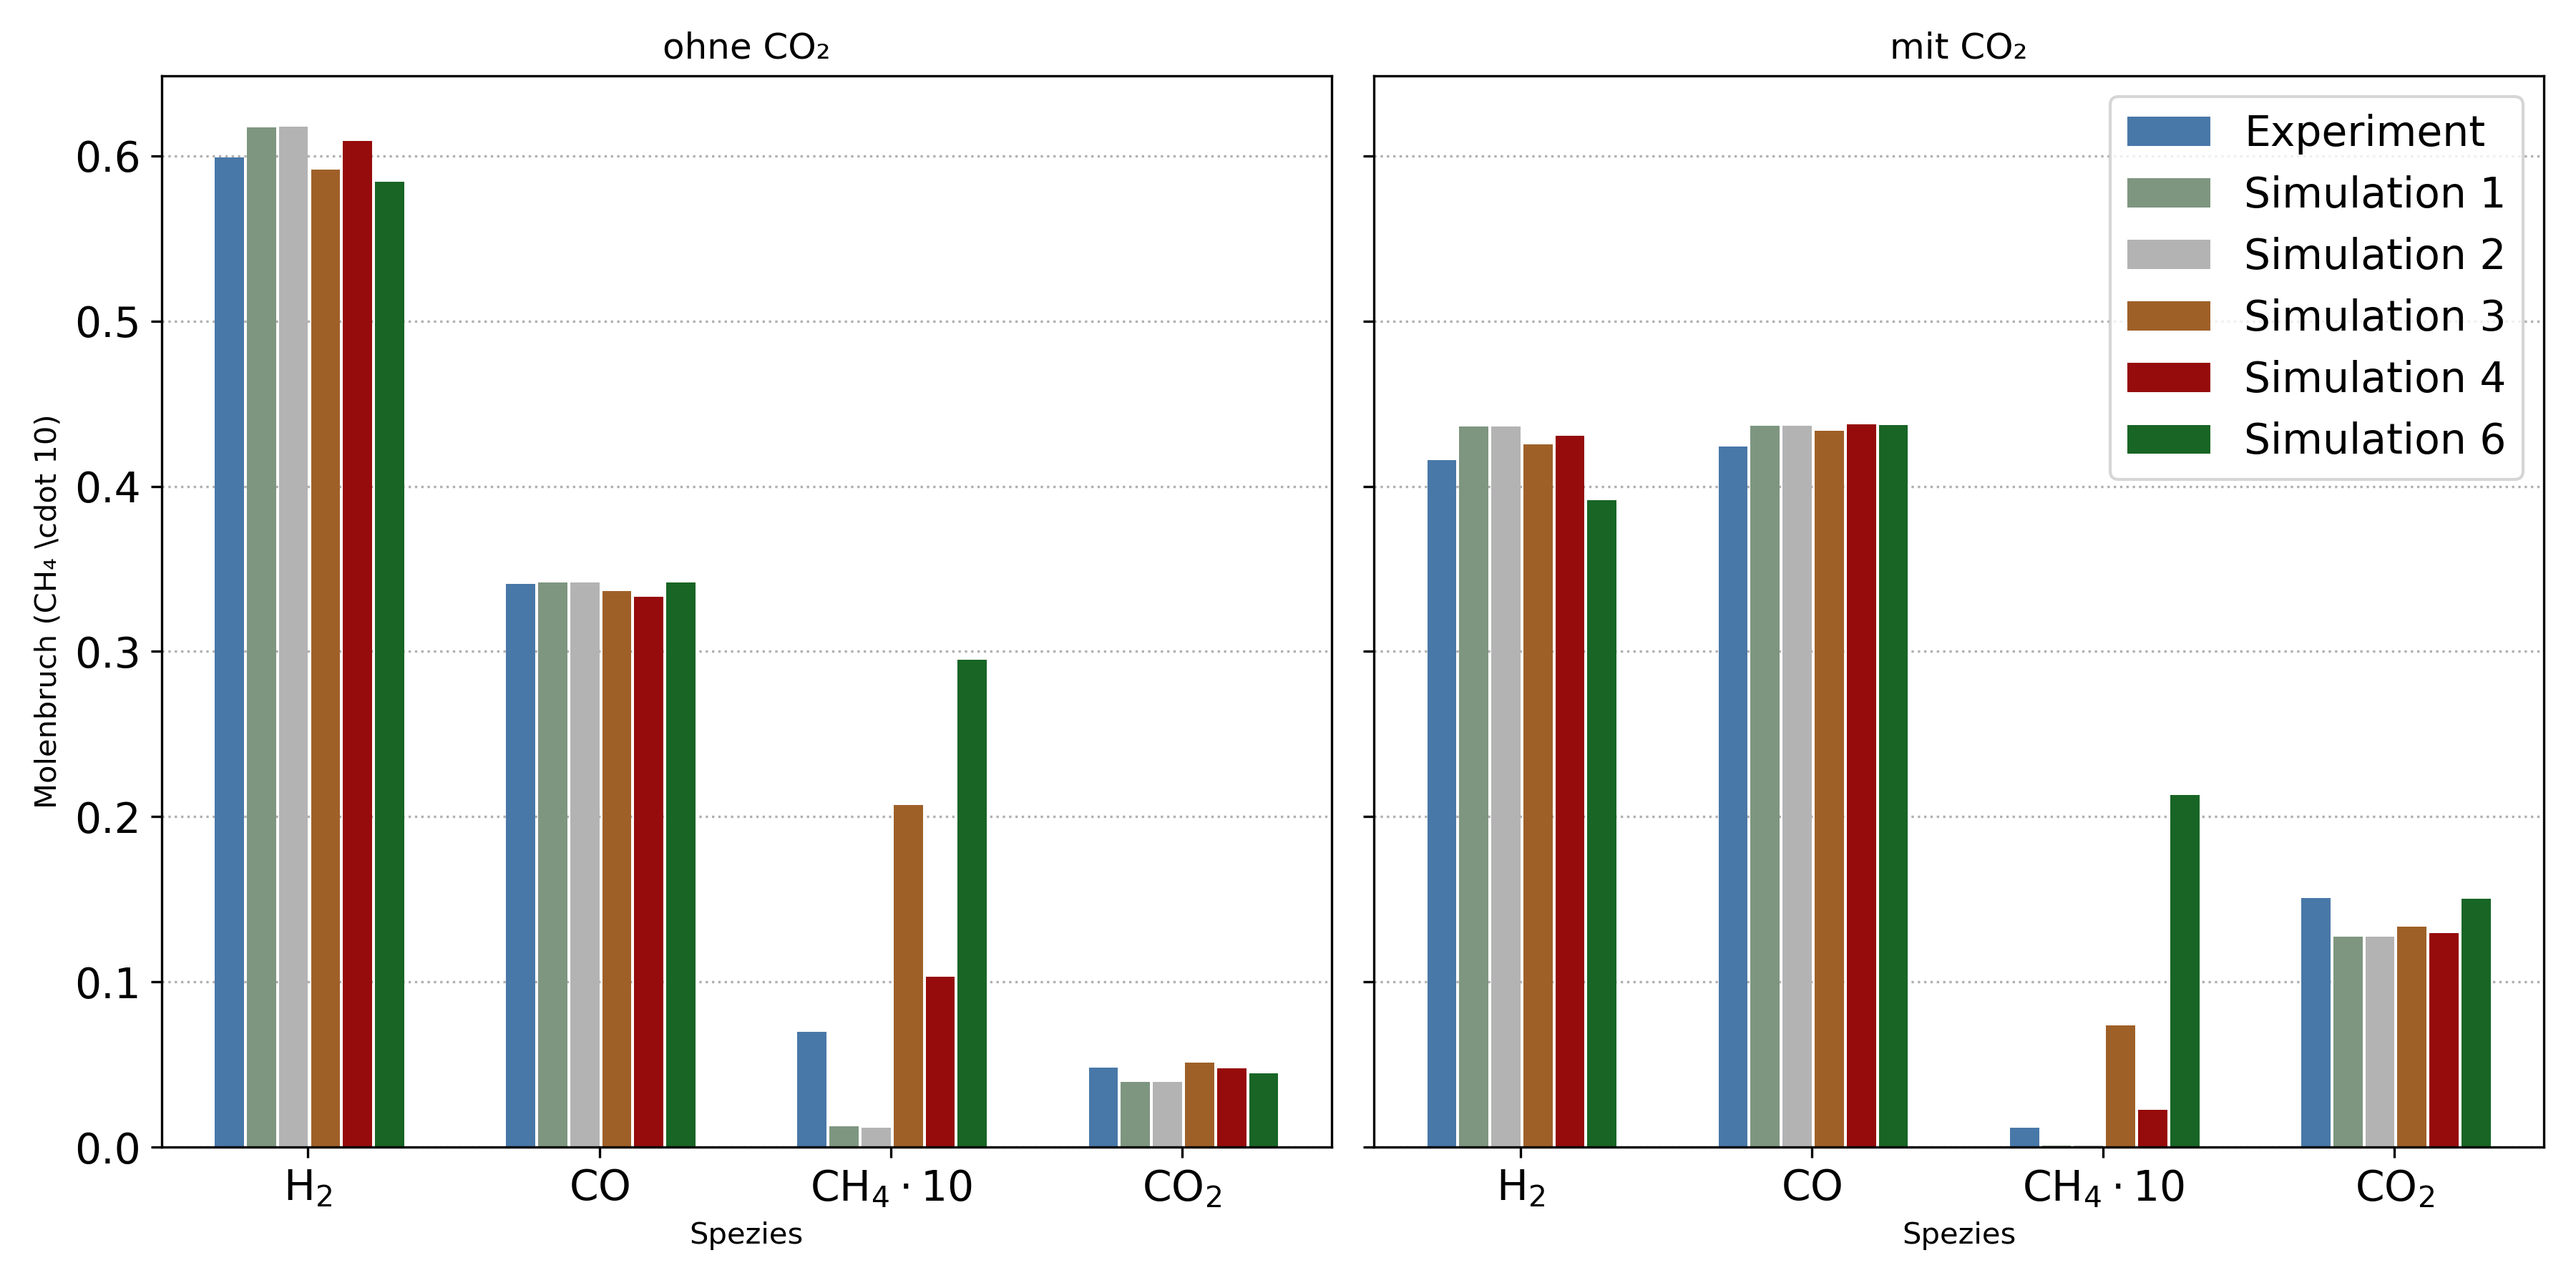
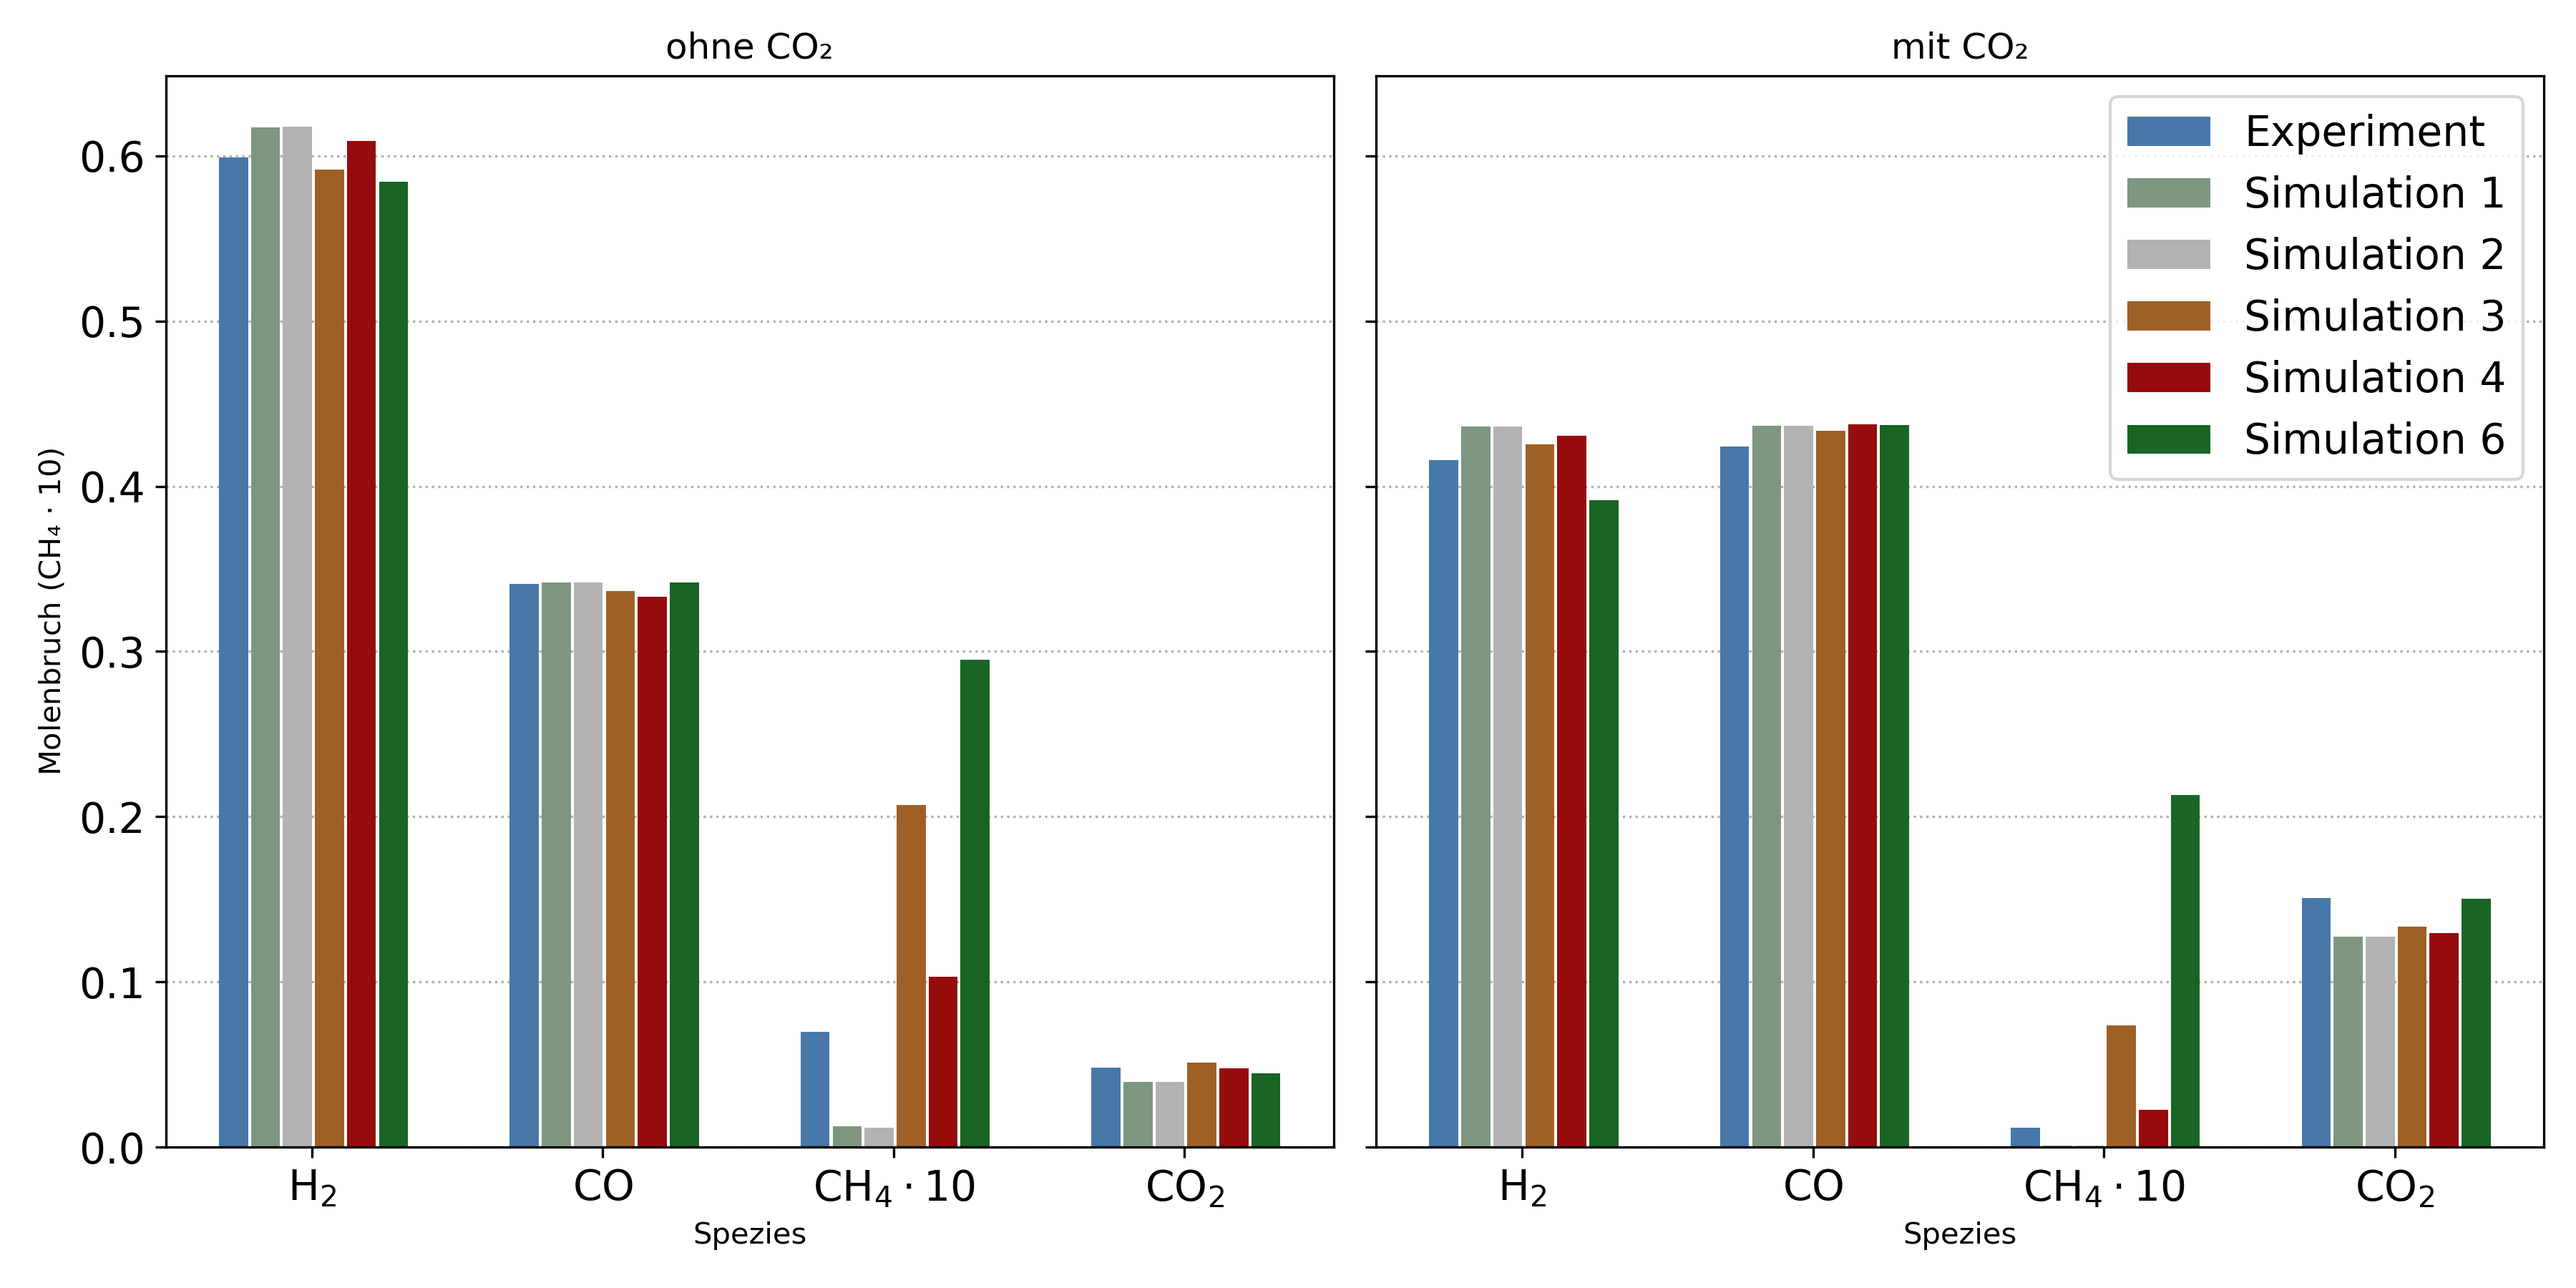
Bugfix plot

diff --git a/Scripts/Auswertungen/Erweiterungen/Auswertung_Erweiterung.py b/Scripts/Auswertungen/Erweiterungen/Auswertung_Erweiterung.py
@@ -361,7 +361,7 @@ for i, (dfp, title) in enumerate(plots):
     ax.set_title(title)
     ax.set_xlabel("Spezies")
     if i == 0:
-        ax.set_ylabel(r"Molenbruch (CH₄ \cdot 10)")
+        ax.set_ylabel(r"Molenbruch (CH₄ $\cdot$ 10)")
         ax.set_ylim(bottom=0)
     ax.grid(axis="y", linestyle="dotted")
     ax.set_axisbelow(True)
